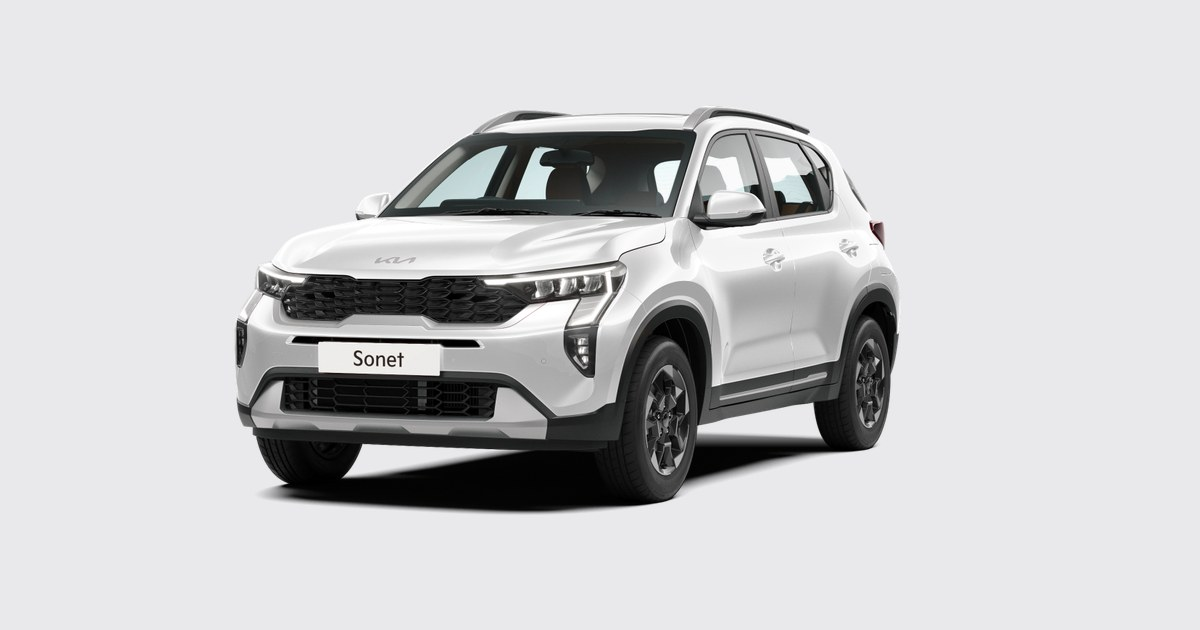
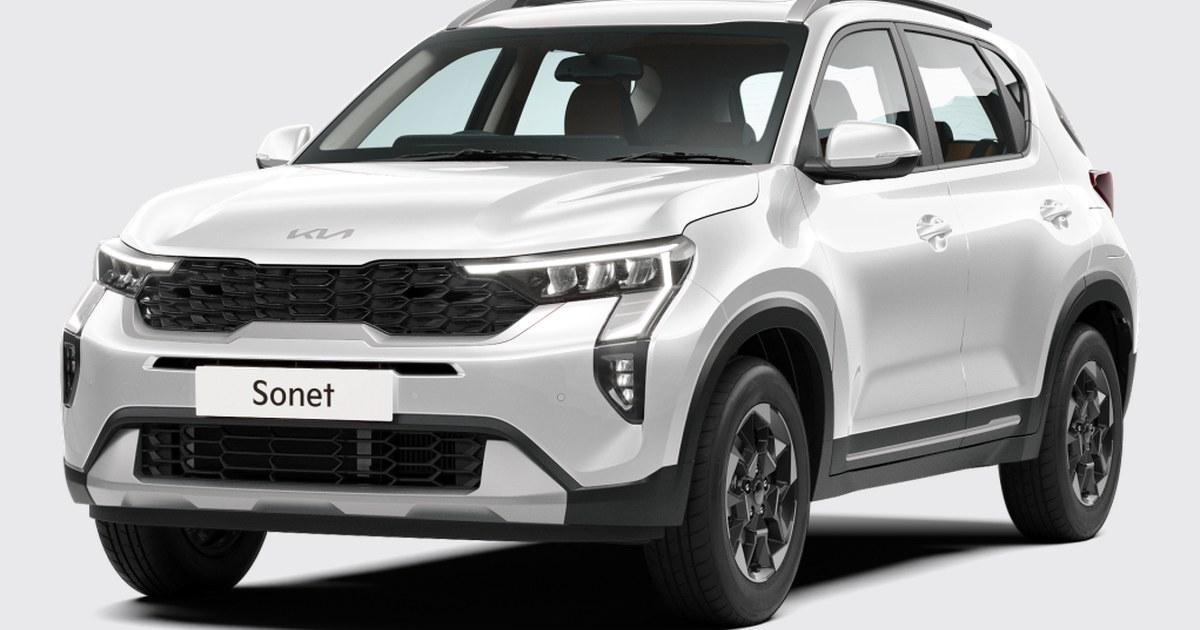
Резкость машины на первом экране
В исходном вырезе машина занимала 57 % ширины кадра, остальное — пустые
поля. Кадр растягивался на экране вдвое и заметно мылил. Теперь вырез
обрезается по альфе до 955×589: на тот же размер приходится вдвое больше
настоящих пикселей. Качество webp у главной картинки поднято до 92.

Координаты выносок пересчитаны под новую обрезку арифметически, по смещению
кадра, — заново по сетке снимать не пришлось.

Чтобы обрезка не привела к тому, что подписи лягут на кузов, слой выносок
вынесен из кадра на сцену: кадр занимает 68 % ширины, по бокам остаются
поля, куда уходят подписи. Ниже 1120 px поля схлопываются и подписи снова
ложатся поверх кадра, как раньше.

diff --git a/app.js b/app.js
@@ -9,13 +9,14 @@
 (function () {
   'use strict';
 
-  /* Координаты деталей на img/car-white-*, в процентах от кадра.
-     Раньше цветов было пять и у каждого был свой набор — переключатель
-     цвета убрали, таблицы остальных лежат в истории (коммит 3d21241). */
+  /* Координаты деталей на img/car-white-*, в процентах от кадра с машиной.
+     Сняты по обрезанному кадру 955×589 — если менять обрезку в make_img.py,
+     координаты надо пересчитать. Раньше цветов было пять и у каждого был
+     свой набор, таблицы остальных лежат в истории (коммит 3d21241). */
   var ANCHORS = {
-    hood:   [34, 41], grille: [29, 51], lamp: [43, 48],
-    glass:  [45, 31], door:   [61, 35], roof: [57, 19],
-    wheel:  [53, 65], sill:   [64, 61], rear: [69, 40]
+    hood:   [28, 37], grille: [19, 53], lamp: [43, 48],
+    glass:  [46, 22], door:   [73, 28], roof: [66,  4],
+    wheel:  [60, 74], sill:   [78, 68], rear: [86, 36]
   };
 
   /* Рубрики по порядку пилюль в разметке. Каждый плюс: деталь машины
@@ -73,6 +74,7 @@
   var frame = $('#stageFrame');
   if (frame) {
 
+  var stage = $('#stage');
   var spotsBox = $('#spots');
   var cat = 1;                        // Дизайн — как в макете
   var spot = 0;
@@ -82,9 +84,17 @@
   function pts() { return CATS[cat].pts; }
 
   function layout() {
-    var W = frame.clientWidth;
-    var H = frame.clientHeight;
-    if (!W || !H) return;
+    /* Точки считаем по кадру с машиной, а подписи ставим по краям сцены:
+       на широком экране кадр уже сцены, и подписи уходят в поля по бокам,
+       не закрывая кузов. На узком поля схлопываются в ноль (см. --gutter
+       в site.css) и подписи снова ложатся поверх кадра. */
+    var W = stage.clientWidth;
+    var H = stage.clientHeight;
+    var fw = frame.clientWidth;
+    var fh = frame.clientHeight;
+    var ox = frame.offsetLeft;
+    var oy = frame.offsetTop;
+    if (!W || !H || !fw || !fh) return;
 
     var pins = $$('.pin', spotsBox);
     var calls = $$('.callout', spotsBox);
@@ -93,8 +103,9 @@
        переносятся на две строки, и фиксированный просвет их не разводит. */
     var items = pts().map(function (p, i) {
       var a = ANCHORS[p.at];
-      return { i: i, x: a[0] / 100 * W, y: a[1] / 100 * H,
-               left: a[0] < 50, h: calls[i].offsetHeight };
+      var x = ox + a[0] / 100 * fw;
+      return { i: i, x: x, y: oy + a[1] / 100 * fh,
+               left: x < W / 2, h: calls[i].offsetHeight };
     });
 
     [true, false].forEach(function (isLeft) {
@@ -188,7 +199,7 @@
   renderCat();
 
   /* Кадр меняет ширину вместе с окном — пересчитываем раскладку подписей. */
-  if ('ResizeObserver' in window) new ResizeObserver(layout).observe(frame);
+  if ('ResizeObserver' in window) new ResizeObserver(layout).observe(stage);
   else window.addEventListener('resize', layout);
 
   }   /* конец конфигуратора */

diff --git a/src/index.html b/src/index.html
@@ -20,14 +20,14 @@ description: Клуб владельцев Kia Sonet. Пять цветов ку
     </div>
   </div>
 
-  <div class="stage">
+  <div class="stage" id="stage">
     <div class="stage__frame" id="stageFrame">
       <picture class="stage__pic">
-        <source type="image/webp" srcset="img/car-white-740.webp 740w, img/car-white-1480.webp 1480w" sizes="(max-width: 859px) 92vw, (max-width: 1119px) 70vw, 1030px">
-        <img src="img/car-white-740.png" srcset="img/car-white-740.png 740w, img/car-white-1480.png 1480w" sizes="(max-width: 859px) 92vw, (max-width: 1119px) 70vw, 1030px" width="1480" height="832" alt="Kia Sonet в цвете Glacier White Pearl, студийная съёмка" fetchpriority="high" decoding="async">
+        <source type="image/webp" srcset="img/car-white-640.webp 640w, img/car-white-955.webp 955w" sizes="(max-width: 859px) 92vw, (max-width: 1119px) 70vw, 700px">
+        <img src="img/car-white-640.png" srcset="img/car-white-640.png 640w, img/car-white-955.png 955w" sizes="(max-width: 859px) 92vw, (max-width: 1119px) 70vw, 700px" width="955" height="589" alt="Kia Sonet в цвете Glacier White Pearl, студийная съёмка" fetchpriority="high" decoding="async">
       </picture>
-      <div class="spots" id="spots"></div>
     </div>
+    <div class="spots" id="spots"></div>
   </div>
 </section>
 

diff --git a/index.html b/index.html
@@ -79,14 +79,14 @@ try {
     </div>
   </div>
 
-  <div class="stage">
+  <div class="stage" id="stage">
     <div class="stage__frame" id="stageFrame">
       <picture class="stage__pic">
-        <source type="image/webp" srcset="img/car-white-740.webp 740w, img/car-white-1480.webp 1480w" sizes="(max-width: 859px) 92vw, (max-width: 1119px) 70vw, 1030px">
-        <img src="img/car-white-740.png" srcset="img/car-white-740.png 740w, img/car-white-1480.png 1480w" sizes="(max-width: 859px) 92vw, (max-width: 1119px) 70vw, 1030px" width="1480" height="832" alt="Kia Sonet в цвете Glacier White Pearl, студийная съёмка" fetchpriority="high" decoding="async">
+        <source type="image/webp" srcset="img/car-white-640.webp 640w, img/car-white-955.webp 955w" sizes="(max-width: 859px) 92vw, (max-width: 1119px) 70vw, 700px">
+        <img src="img/car-white-640.png" srcset="img/car-white-640.png 640w, img/car-white-955.png 955w" sizes="(max-width: 859px) 92vw, (max-width: 1119px) 70vw, 700px" width="955" height="589" alt="Kia Sonet в цвете Glacier White Pearl, студийная съёмка" fetchpriority="high" decoding="async">
       </picture>
-      <div class="spots" id="spots"></div>
     </div>
+    <div class="spots" id="spots"></div>
   </div>
 </section>
 

diff --git a/site.css b/site.css
@@ -327,19 +327,19 @@ button {
 
 
 /* сцена с автомобилем */
+/* Кадр с машиной уже сцены: по бокам остаются поля, куда уходят подписи
+   выносок. Так кузов не закрыт и картинке достаётся вся ширина кадра. */
 .stage {
   position: relative;
-  display: grid;
-  place-items: center;
   min-width: 0;
+  --gutter: 16%;
 }
 
 .stage__frame {
   position: relative;
-  width: 100%;
-  aspect-ratio: 16 / 9;
-  border-radius: var(--r-media);
-  overflow: hidden;
+  width: calc(100% - 2 * var(--gutter));
+  margin-inline: auto;
+  aspect-ratio: 955 / 589;
 }
 .stage__pic {
   position: absolute;
@@ -958,6 +958,9 @@ button {
   .conf {
     grid-template-columns: 205px minmax(0, 1fr);
   }
+  /* поля под подписи есть только на широком экране: ниже они всё равно
+     не вместят подпись, и выноски снова ложатся поверх кадра */
+  .stage { --gutter: 0px; }
   .acc__grid { grid-template-columns: repeat(2, minmax(0, 1fr)); }
   .specs { grid-template-columns: repeat(3, minmax(0, 1fr)); }
   .block,

diff --git a/tools/make_img.py b/tools/make_img.py
@@ -11,8 +11,12 @@ SRC = os.path.join(ROOT, "img", "_src")
 OUT = os.path.join(ROOT, "img")
 
 # имя → (файл исходника, ширины, есть ли прозрачность)
+# У выреза кузова поля обрезаются по альфе: в исходнике машина занимает
+# 57 % ширины, и пустота съедала разрешение — на экране кадр растягивался
+# вдвое и мылил. Координаты выносок в app.js сняты уже по обрезанному кадру.
+CROP_ALPHA = {"car-white"}
 JOBS = {
-    "car-white":  ("pasted-1787529322652-0.png", (740, 1480), True),
+    "car-white":  ("pasted-1787529322652-0.png", (640, 955), True),
     "car-red":    ("pasted-1787529291951-0.png", (740, 1480), False),
     "car-black":  ("pasted-1787529216560-0.png", (740, 1480), False),
     "car-grey":   ("pasted-1787529280859-0.png", (740, 1480), False),
@@ -26,7 +30,8 @@ JOBS = {
 
 def save(im, path, alpha):
     if alpha:
-        im.save(path + ".webp", quality=86, method=6)
+        # вырез — главная картинка сайта, качество выше остальных
+        im.save(path + ".webp", quality=92, method=6)
         im.save(path + ".png", optimize=True)
     else:
         im.convert("RGB").save(path + ".webp", quality=82, method=6)
@@ -36,6 +41,14 @@ def save(im, path, alpha):
 def main():
     for name, (src, widths, alpha) in JOBS.items():
         orig = Image.open(os.path.join(SRC, src))
+        if name in CROP_ALPHA:
+            bb = orig.getchannel("A").getbbox()
+            mx = round((bb[2] - bb[0]) * 0.02)
+            my = round((bb[3] - bb[1]) * 0.02)
+            orig = orig.crop((max(0, bb[0] - mx), max(0, bb[1] - my),
+                              min(orig.width, bb[2] + mx),
+                              min(orig.height, bb[3] + my)))
+            print(f"{name}: обрезан по альфе до {orig.width}x{orig.height}")
         for w in widths:
             if w > orig.width:
                 continue
@@ -46,8 +59,10 @@ def main():
 
     # og-картинка: белый вырез на светлом фоне, 1200x630
     car = Image.open(os.path.join(SRC, JOBS["car-white"][0]))
+    bb = car.getchannel("A").getbbox()
+    car = car.crop(bb)
     og = Image.new("RGB", (1200, 630), (233, 233, 236))
-    cw = 1160
+    cw = 1080
     ch = round(car.height * cw / car.width)
     car = car.resize((cw, ch), Image.LANCZOS)
     og.paste(car, ((1200 - cw) // 2, (630 - ch) // 2), car)

diff --git a/README.md b/README.md
@@ -78,7 +78,17 @@ python3 tools/make_img.py
 ```
 
 Скрипт кладёт рядом `webp` и `jpg` в нужных ширинах. Белый кузов —
-вырезанный PNG с прозрачностью, поэтому у него запасной формат `png`, а не `jpg`.
+вырезанный PNG с прозрачностью, поэтому у него запасной формат `png`, а не `jpg`,
+и качество webp выше остальных: это главная картинка сайта.
+
+Вырез обрезается по альфе (`CROP_ALPHA` в скрипте): в исходнике машина
+занимает 57 % ширины кадра, и пустые поля съедали разрешение — на экране
+кадр растягивался вдвое и мылил. После обрезки остаётся 955×589, и на тот же
+размер на экране приходится вдвое больше настоящих пикселей.
+
+**Потолок упирается в исходник:** в нём машина всего 919 пикселей по ширине.
+Для по-настоящему резкой картинки на retina нужен снимок, где кузов занимает
+хотя бы 2000 пикселей.
 
 ## Что осталось сделать
 
@@ -100,12 +110,17 @@ python3 tools/make_img.py
   одно и то же — «1.5 MPI, вариатор IVT». Так вышло после отказа от турбо,
   и читается как копипаста. Если версии различаются чем-то ещё по железу,
   это стоит поставить первым пунктом.
-- Белый вырез снят с большими полями: машина занимает чуть больше половины
-  кадра, поэтому линии выносок длинные. Обрезать вырез плотнее можно,
-  но тогда придётся заново снять все девять координат.
-- На телефоне подписи выносок закрывают заметную часть машины: кадр всего
-  16/9 и узкий. Терпимо, но если станет мешать — вынести подписи под кадр
-  отдельным списком.
+- **Нужны живые фотографии.** Все снимки на сайте — пресс-фото
+  производителя. На сайте клуба нет ни одного владельца, ни одной встречи,
+  ни одной машины участника: страница читается как каталог, а не как
+  сообщество. Это самое сильное, что можно добавить.
+- **Нечем показать масштаб.** «Большая армия поклонников» ничем
+  не подтверждена: нет ни числа участников в чатах, ни отзывов, ни имён.
+  Нужны настоящие цифры — выдумывать их нельзя.
+- Клик по выноске сейчас только подсвечивает её: тексты плюсов написаны,
+  но показывать их негде. Можно выводить строкой под машиной.
+- На телефоне подписи выносок закрывают часть машины: кадр узкий, полей
+  по бокам нет. Терпимо, но если станет мешать — вынести подписи под кадр.
 
 Сайт живёт на GitHub Pages из ветки `main`, домен `sonet-kia.uz`
 (`CNAME` в корне создал сам GitHub), репозиторий `zvezdotank/sonet-kia.uz`.
